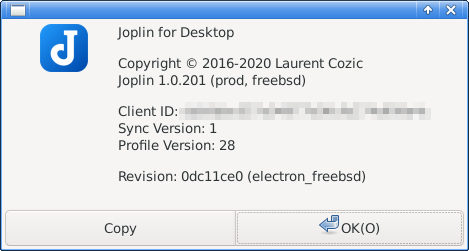
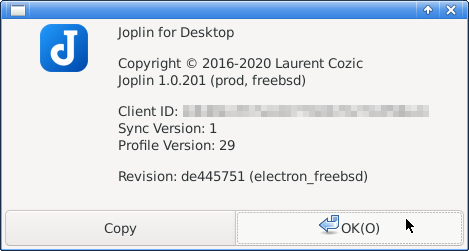
Add a note on electron7-7.2.2

diff --git a/content/playing-with-bsd/application/howto-use-joplin-on-freebsd.md b/content/playing-with-bsd/application/howto-use-joplin-on-freebsd.md
@@ -1,7 +1,7 @@
 ---
 title: "How to use Joplin desktop app on FreeBSD"
 date: 2020-01-15T20:26:00+09:00
-lastmod: 2020-04-16T18:32:00+09:00
+lastmod: 2020-05-02T15:59:00+09:00
 draft: false
 tags: [ "application", "installation", "freebsd", "font" ]
 toc: true
@@ -12,7 +12,7 @@ For my initial exploration of Joplin on FreeBSD, please refer to the [previous p
 
 ## Target Version
 The current target version of this article is Joplin Electron release v1.0.201 (Apr 2020).  
-I confirmed that the app could be built using my fork at the tag [freebsd-20200416](https://github.com/genneko/joplin/releases/tag/freebsd-20200416).
+I confirmed that the app could be built using my fork at the tag [freebsd-20200421](https://github.com/genneko/joplin/releases/tag/freebsd-20200421).
 ![Joplin Version](/images/howto-use-joplin-on-freebsd/JoplinVersion.png)
 
 ## Building Joplin
@@ -26,6 +26,12 @@ I take the following steps to build Joplin desktop on my FreeBSD 12.1-RELEASE sy
    > **NOTE**  
    > As the electron7 port is pretty new, you might have to switch the package repository from 'quarterly' to 'latest' to install electron7.  
    > Please refer to the [relevant section](https://www.freebsd.org/doc/handbook/pkgng-intro.html#quarterly-latest-branch) of the FreeBSD Handbook.
+   
+   > **NOTE** (2020/5/2)   
+   > The recent update of the electron7 port to 7.2.2 seems to cause trouble.  
+   > Im my environment, Joplin doesn't start correctly with the version.  
+   > I'm not sure what the cause is but if you have the same trouble, please try [7.1.14 on the pre-release repository](https://github.com/tagattie/FreeBSD-Electron/releases/tag/v7.1.14).
+   > If your system has currently 7.1.x, you can run ``pkg lock electron7`` to lock its version.
    
    Then I created symbolic links for compatibility.  
    ```
@@ -44,9 +50,9 @@ I take the following steps to build Joplin desktop on my FreeBSD 12.1-RELEASE sy
    ```
    > **NOTE**  
    > If the head of the branch cannot be built (it occurs from time to time), please try the tagged version which I confirmed to be built.  
-   > As of 16 April 2020, the latest confirmed tag is [freebsd-20200416](https://github.com/genneko/joplin/releases/tag/freebsd-20200416) and it can be checked out as follows:  
+   > As of 16 April 2020, the latest confirmed tag is [freebsd-20200421](https://github.com/genneko/joplin/releases/tag/freebsd-20200421) and it can be checked out as follows:  
    > ```
-   > git checkout freebsd-20200416
+   > git checkout freebsd-20200421
    > ```
 
 3. Build the desktop (Electron) application by mostly following the [original build instruction](https://github.com/laurent22/joplin/blob/master/BUILD.md#building-the-electron-application).
@@ -156,3 +162,4 @@ Fortunately, this issue can be worked around by using a [special font](/misc/NoL
 * 2020-04-12: Updated the target version to 1.0.199 and add a few notes
 * 2020-04-12: Updated the target version to 1.0.200.
 * 2020-04-16: Updated the target version to 1.0.201.
+* 2020-05-02: Added a note on electron7-7.2.2.
